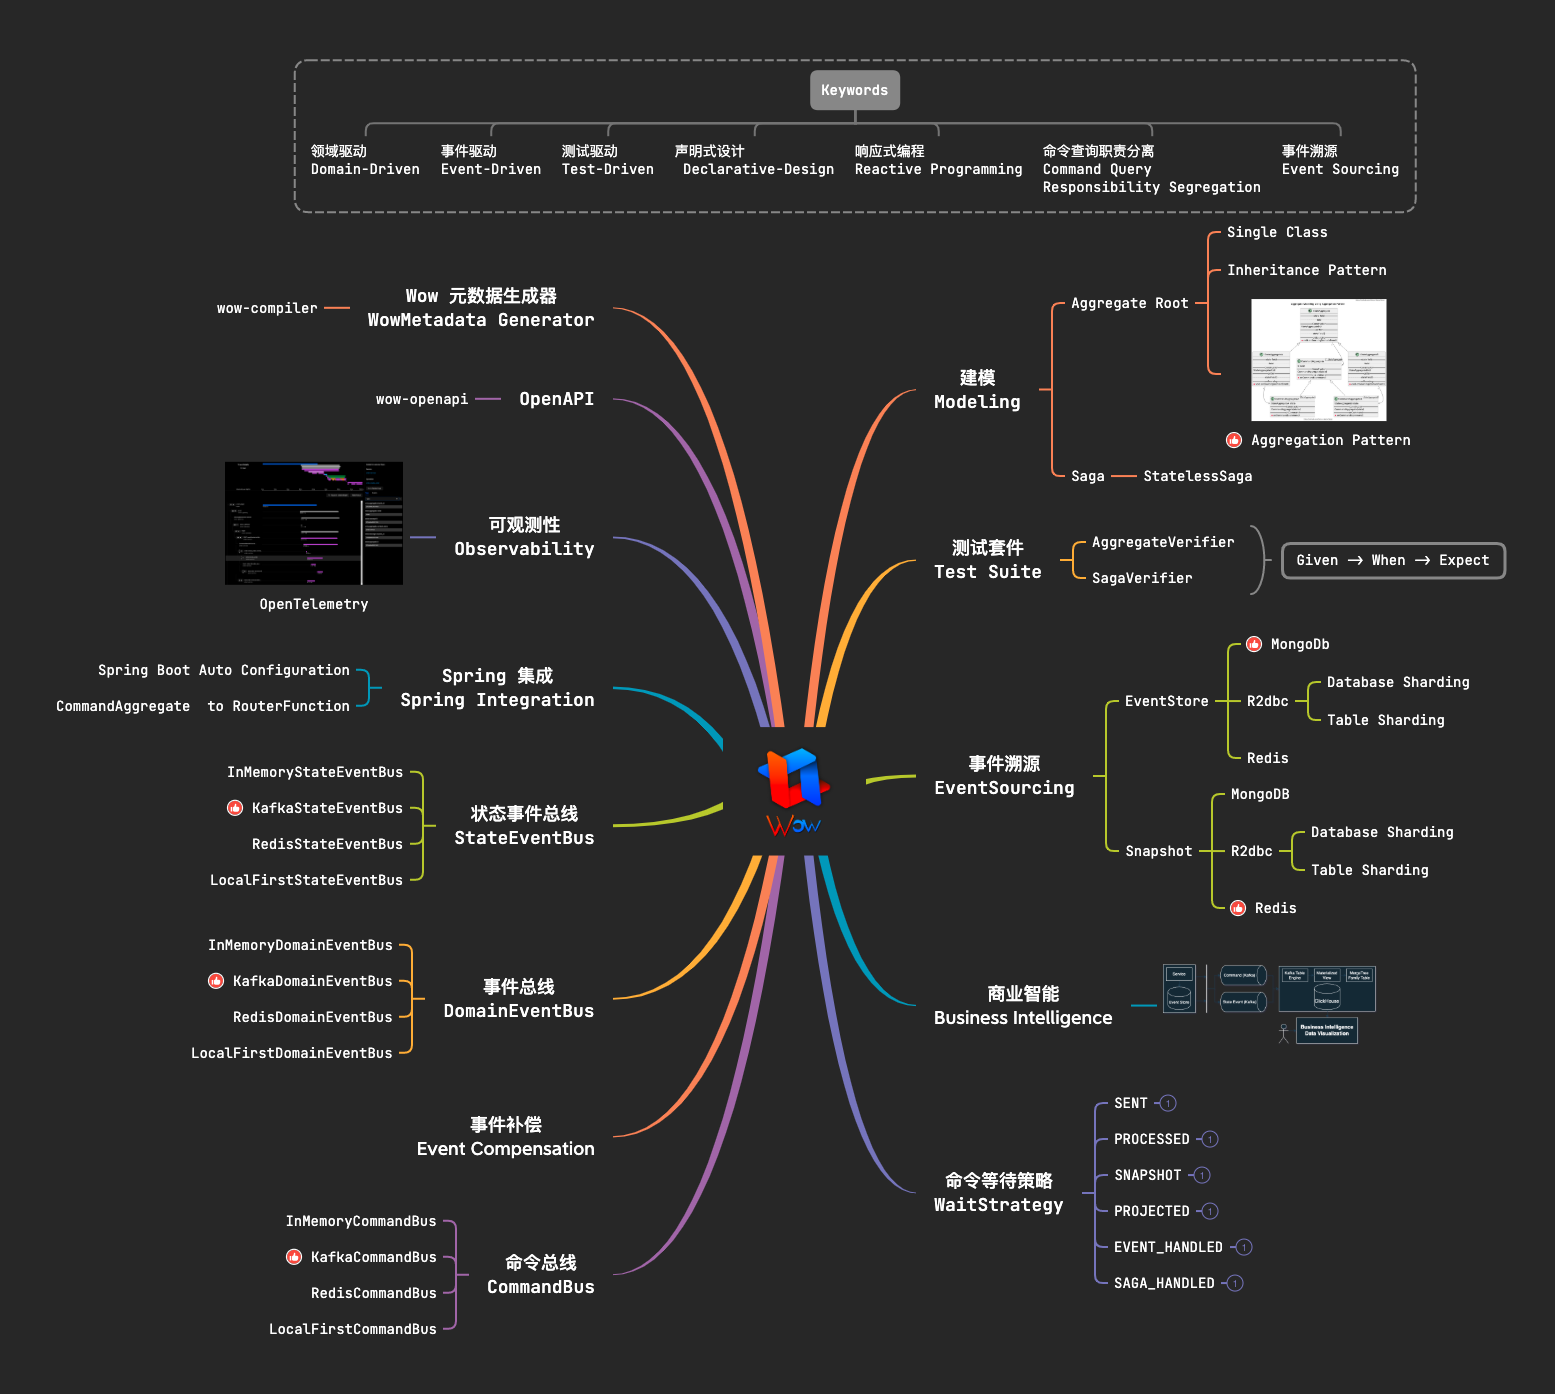
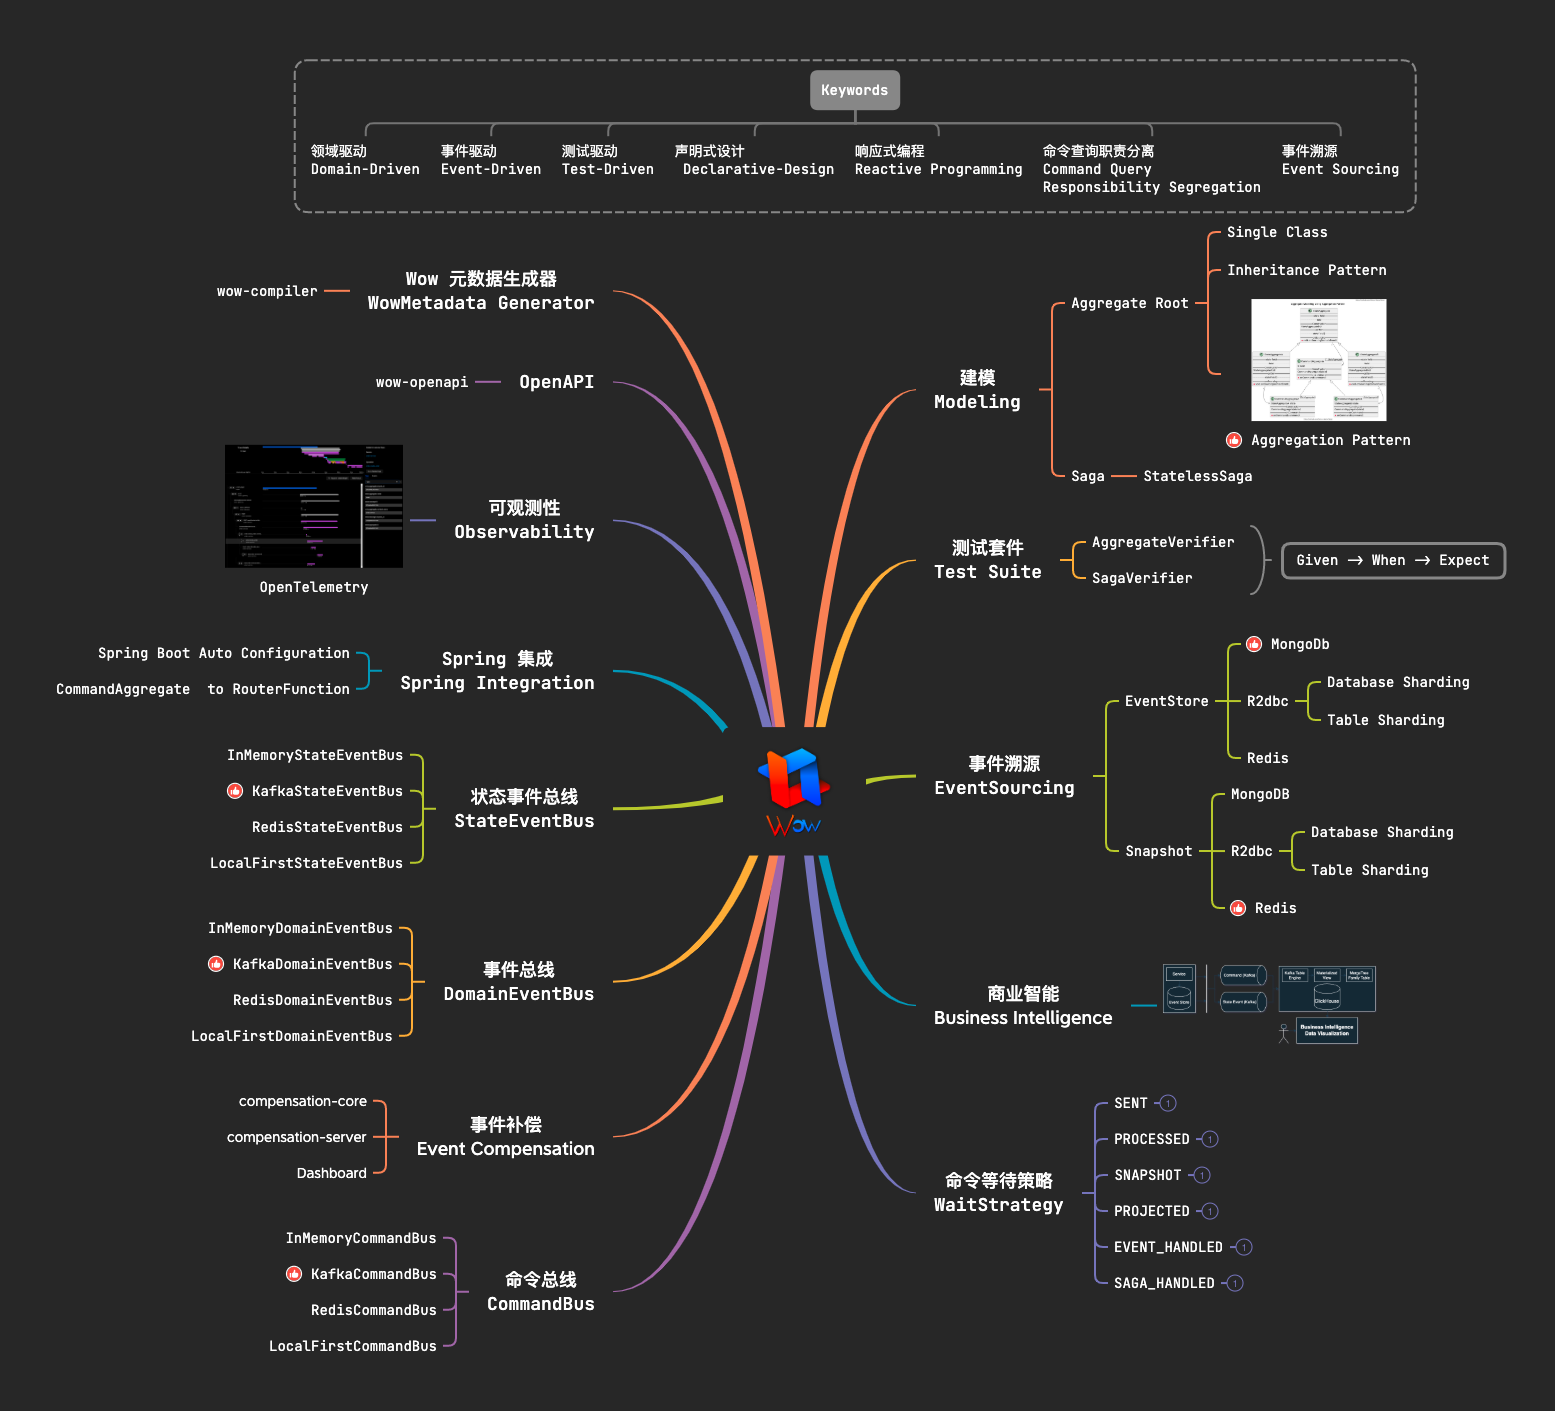
doc: update README

diff --git a/README.md b/README.md
@@ -321,13 +321,25 @@ class CartSagaTest {
 
 ### Event Compensation
 
+#### Use Case
+
+<p align="center" style="text-align:center">
+  <img src="./document/design/assets/Event-Compensation-UserCase.svg" alt="Event-Compensation-UserCase"/>
+</p>
+
+#### Execution Sequence Diagram
+
 <p align="center" style="text-align:center">
   <img src="./document/design/assets/Event-Compensation.svg" alt="Event-Compensation"/>
 </p>
 
-### Saga - OrderProcessManager (Demo)
+#### Dashboard
 
 <p align="center" style="text-align:center">
-  <img src="./document/design/assets/Saga-Order.svg" alt="OrderProcessManager"/>
+  <img src="./document/design/assets/compensation-dashboard.png" alt="Compensation-Dashboard"/>
+</p>
+
+<p align="center" style="text-align:center">
+  <img src="./document/design/assets/compensation-dashboard-error.png" alt="Compensation-Dashboard-Error"/>
 </p>
 

diff --git a/README.zh-CN.md b/README.zh-CN.md
@@ -320,12 +320,24 @@ class CartSagaTest {
 
 ### 事件补偿
 
+#### 用例图
+
+<p align="center" style="text-align:center">
+  <img src="./document/design/assets/Event-Compensation-UserCase.svg" alt="Event-Compensation-UserCase"/>
+</p>
+
+#### 执行时序图
+
 <p align="center" style="text-align:center">
   <img src="./document/design/assets/Event-Compensation.svg" alt="Event-Compensation"/>
 </p>
 
-### Saga - OrderProcessManager (Demo)
+#### Dashboard
 
 <p align="center" style="text-align:center">
-  <img src="./document/design/assets/Saga-Order.svg" alt="OrderProcessManager"/>
+  <img src="./document/design/assets/compensation-dashboard.png" alt="Compensation-Dashboard"/>
+</p>
+
+<p align="center" style="text-align:center">
+  <img src="./document/design/assets/compensation-dashboard-error.png" alt="Compensation-Dashboard-Error"/>
 </p>

diff --git a/compensation/README.md b/compensation/README.md
@@ -11,3 +11,13 @@
 <p align="center" style="text-align:center">
   <img src="../document/design/assets/Event-Compensation.svg" alt="Event-Compensation"/>
 </p>
+
+## Dashboard
+
+<p align="center" style="text-align:center">
+  <img src="../document/design/assets/compensation-dashboard.png" alt="Compensation-Dashboard"/>
+</p>
+
+<p align="center" style="text-align:center">
+  <img src="../document/design/assets/compensation-dashboard-error.png" alt="Compensation-Dashboard-Error"/>
+</p>
